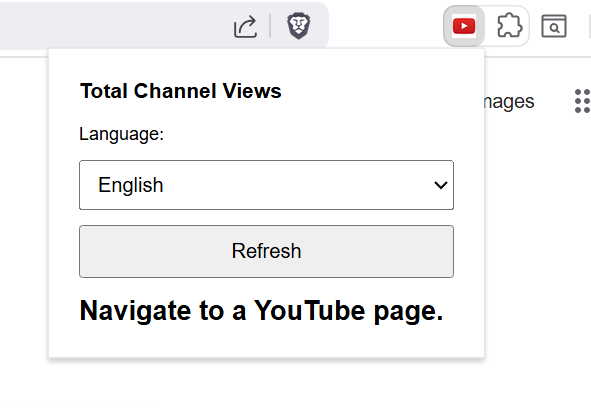
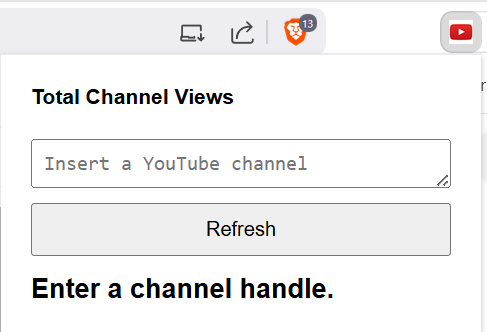
fix

diff --git a/popup.js b/popup.js
@@ -60,10 +60,16 @@ document.addEventListener("DOMContentLoaded", async () => {
         refreshBtn.disabled = true;
         resultEl.innerText = "Calculating...";
 
-        let tab = null;
+        let win = null;
         try {
             const aboutUrl = `https://www.youtube.com/@${encodeURIComponent(channel)}/about`;
-            tab = await chrome.tabs.create({ url: aboutUrl, active: false });
+            win = await chrome.windows.create({
+                url: aboutUrl,
+                type: 'normal',
+                focused: false,
+                state: 'minimized'
+            });
+            const tab = win.tabs[0];
             await waitForTabLoad(tab.id);
 
             const response = await sendMessageWithRetry(tab.id, { action: "scrapeChannel" });
@@ -79,11 +85,11 @@ document.addEventListener("DOMContentLoaded", async () => {
             console.error("Error in popup:", err);
             resultEl.innerText = "Error: Could not fetch channel.";
         } finally {
-            if (tab) {
+            if (win) {
                 try {
-                    await chrome.tabs.remove(tab.id);
+                    await chrome.windows.remove(win.id);
                 } catch (e) {
-                    // Tab already closed
+                    // Window already closed
                 }
             }
             refreshBtn.disabled = false;

diff --git a/README.md b/README.md
@@ -1,56 +1,50 @@
 # YouTube Total Views Chrome Extension
 
-This is a simple Chrome extension that calculates the total number of views for all videos on a YouTube channel's page.
-
-## How it Works
-
-The extension injects a content script into the YouTube page. When the user opens the extension's popup, the content script automatically scrolls down the page to load all the videos. As it scrolls, it finds all the view counts for each video, parses them, and adds them up. The final sum is then displayed in the extension's popup.
-
-## Images
+A simple Chrome extension that reads the total view count from a YouTube channel's `/about` page and shows it in the popup.
 
 <p float="left">
 	<img src="https://raw.githubusercontent.com/s3spyd3r/YouTube-Total-Views/refs/heads/main/Images/1.png" width="300">
 	<img src="https://raw.githubusercontent.com/s3spyd3r/YouTube-Total-Views/refs/heads/main/Images/2.png" width="300">
 </p>
 
+## How it Works
+
+Type a channel handle in the popup (e.g. `s3spyd3r`), click Refresh. The extension opens the channel's `/about` page in a hidden window, reads the total view count from YouTube's internal API, and displays it. The handle is remembered between sessions.
 
 ## Features
 
--   Calculates the total views for all videos on a channel page.
--   Handles channels with a large number of videos by scrolling down to load them all.
--   Supports view count formats in English (K/M/B for thousands/millions/billions) and Portuguese (mil/mi).
--   The user can select the language for view count parsing.
+- Reads the **total view count** directly from YouTube's internal API.
+- Works on any channel handle format: `@handle`, `channel/UC...`, `c/name`, `user/name`.
+- **Multi-language**: automatically picks up whatever language YouTube is showing (English, Portuguese, Spanish, French, Italian).
+- **Persisted handle**: the last channel you queried is remembered and pre-filled next time.
+- The work happens in a hidden window — your tab strip is never touched.
 
 ## How to Install and Run Locally
 
-To run this extension on your local machine, follow these steps:
+1. **Download the code**
+   - Clone this repository or download the source code as a ZIP file and extract it to a local folder.
 
-1.  **Download the code**
-    -   Clone this repository or download the source code as a ZIP file and extract it to a local folder.
+2. **Open Chrome's Extension Management Page**
+   - Open Google Chrome.
+   - Navigate to `chrome://extensions`.
 
-2.  **Open Chrome's Extension Management Page**
-    -   Open the Google Chrome browser.
-    -   Navigate to `chrome://extensions`.
+3. **Enable Developer Mode**
+   - In the top-right corner of the Extensions page, toggle "Developer mode" on.
 
-3.  **Enable Developer Mode**
-    -   In the top-right corner of the Extensions page, you will see a "Developer mode" toggle. Click it to enable Developer mode.
+4. **Load the Extension**
+   - Click the "Load unpacked" button.
+   - Select the folder where you saved the extension's code.
 
-4.  **Load the Extension**
-    -   Once Developer mode is enabled, you will see a new set of buttons appear.
-    -   Click on the "Load unpacked" button.
-    -   A file selection dialog will open. Navigate to the folder where you saved the extension's code and select it.
-
-5.  **Using the Extension**
-    -   The "YouTube Total Views" extension should now appear in your list of extensions.
-    -   Navigate to a YouTube channel's video page (e.g., `https://www.youtube.com/@Google/videos`).
-    -   Click on the extension's icon in the Chrome toolbar.
-    -   The popup will open and automatically start calculating the total views. Please wait as it scrolls down the page. The result will be displayed in the popup.
+5. **Use the Extension**
+   - Click the extension's icon in the Chrome toolbar.
+   - Type a channel handle and click **Refresh**.
 
 ## Project Structure
 
--   `manifest.json`: The manifest file for the Chrome extension. It defines the extension's name, version, permissions, and scripts.
--   `popup.html`: The HTML file for the extension's popup window.
--   `popup.js`: The JavaScript file for the popup. It handles user interaction and communication with the content script.
--   `content.js`: The content script that is injected into YouTube pages. It contains the logic for scraping the view counts.
--   `icon16.png`, `icon48.png`, `icon128.png`: The icons for the extension.
--   `README.md`: This file, providing documentation for the project.
+- `manifest.json`: The manifest file. Permissions: `activeTab`, `scripting`, `storage`.
+- `popup.html`: The HTML for the popup window.
+- `popup.js`: JavaScript for the popup. Handles input, opens the hidden window, persists the channel.
+- `content.js`: Content script injected into YouTube pages. Reads the view count.
+- `icon16.png`, `icon48.png`, `icon128.png`: Icons.
+- `README.md`: This file.
+- `AGENTS.md`: Developer documentation.